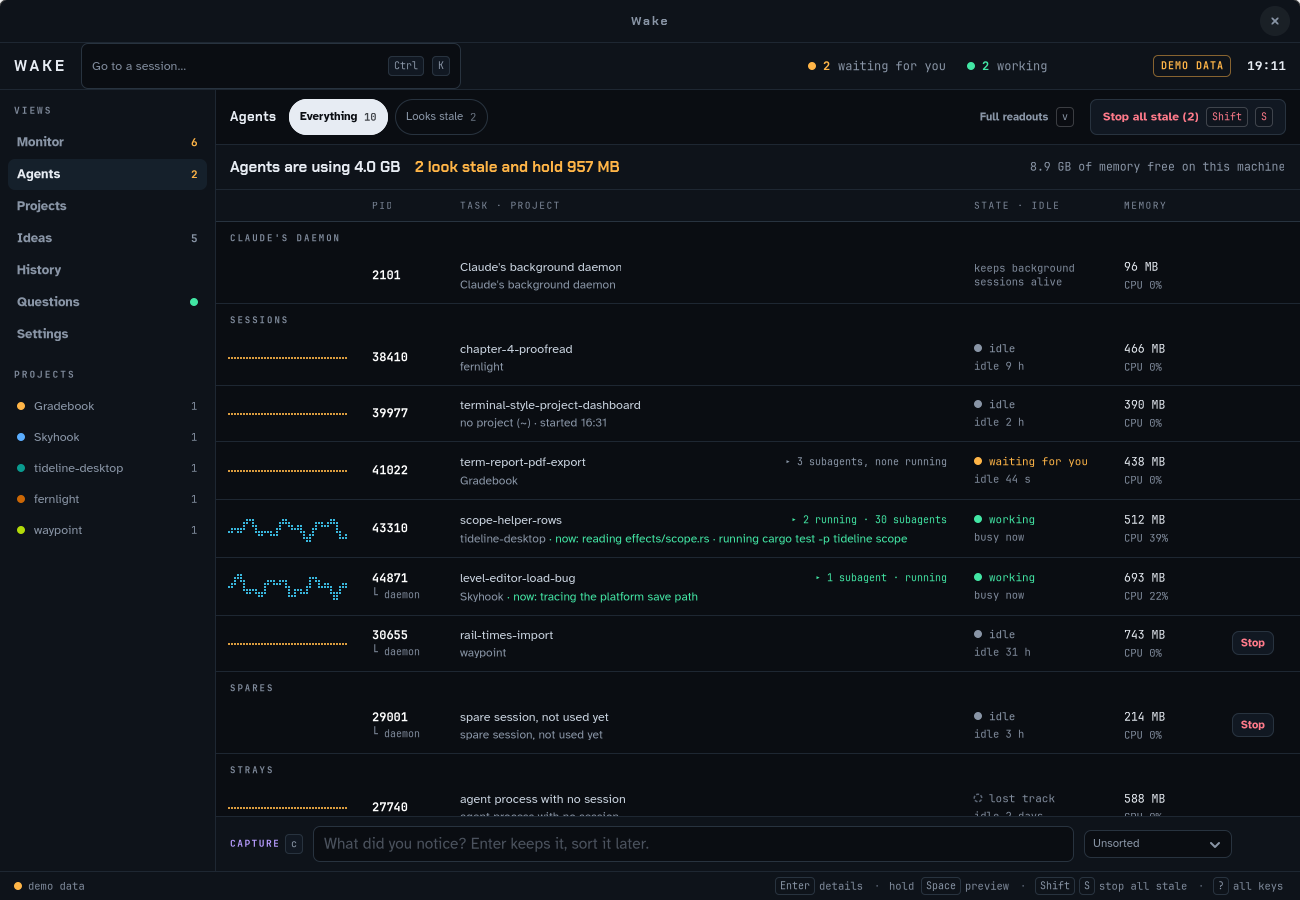
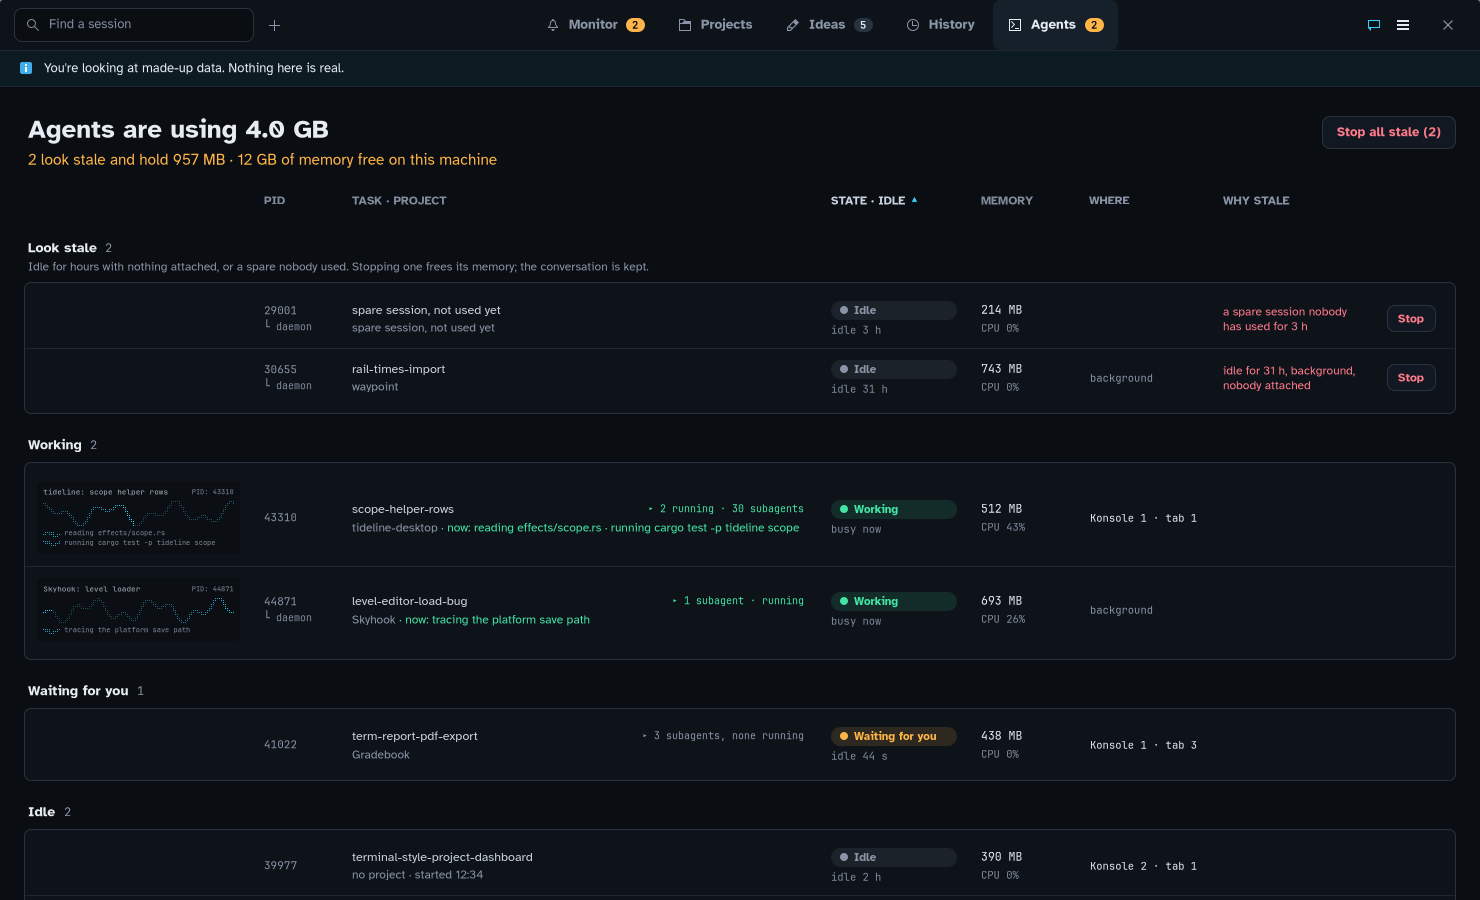
README and pictures for the new design; version 0.1.0-beta.1

diff --git a/README.md b/README.md
@@ -16,7 +16,7 @@ It only reads. Nothing it learns about your sessions leaves your computer.
 [**Getting it**](#getting-it) ·
 [**With Slipstream**](#with-slipstream)
 
-<img src="assets/monitor.png" width="840" alt="Wake's Monitor view with made-up data: seven open sessions, each with its project, its state (waiting for you, working, idle, lost track), the Konsole tab or background it runs in, and what it is doing now or the question it is waiting on.">
+<img src="assets/monitor.png" width="840" alt="Wake's Monitor view with made-up data: a headline saying two sessions need you, a card for each with the question it is asking and a Go to button, then the two working sessions with their live traces, then earlier sessions on one line each.">
 
 </div>
 
@@ -26,23 +26,26 @@ You start an agent on something, then another, then switch projects, and an hour
 know which tab is which, which one is waiting on you, or where you'd got to in the project you put
 down yesterday. Wake reads what the agents already leave on disk and puts it in one window.
 
-- **Monitor** lists every open session: whether it is working, waiting for you, idle or gone, how
-  Wake knows that, where it runs (which Konsole tab, or in the background), and what it is doing
-  now or the question it is waiting on.
-- **Agents** lists the agent processes themselves: which PID is which task, how much memory each
-  holds, how long it has been idle, and which look stale (idle for hours with nobody attached, a
-  spare nobody used, a process whose terminal has gone). You can stop them from here; Wake names
-  the task and PID and asks first.
-- **Projects** shows where you left each project: Claude's own last recap, the next step you
-  wrote down, git loose ends in plain words (uncommitted files, branches and commits not pushed,
-  repos with no remote at all), and a pause note when you put one down on purpose.
-- **Ideas** keeps what you noticed while working (`c`, or `wake , text` in a terminal), to sort
-  into projects later. Tick a few and start an agent on them with a brief.
-- **History** searches everything you asked, every session title and every file touched, including
-  sessions Claude has since deleted: Wake keeps a summary of each.
-- **Questions** asks your own `claude`, `codex` or `gemini` a quick question without opening a
-  terminal, in threads you can come back to. They may only search and read; nothing that changes
-  files is allowed.
+- **Monitor** starts with what needs you: each session waiting on a question or a decision is a
+  card with the question in full and the way there under it. Then the sessions at work, each with
+  its live trace and what you last asked, and everything else on one quiet line each.
+- **Projects** shows where you left each project, a card each: the next step you wrote down (or
+  Claude's last recap), the sessions open in it, commits waiting to be pulled, and git loose ends
+  in plain words (uncommitted files, branches and commits not pushed, repos with no remote).
+- **Ideas** keeps what you noticed while working (`c`, the `+` button, or `wake , text` in a
+  terminal), as notes to sort into projects. Tick a few and start an agent on them with a brief.
+- **History** lists every session by the day you last used it, and searches everything you asked,
+  every session title and every file touched, including sessions Claude has since deleted: Wake
+  keeps a summary of each.
+- **Agents** lists the agent processes themselves, grouped by what you might do about them: the
+  ones that look stale first (idle for hours with nobody attached, a spare nobody used), then
+  those working, waiting for you and idle. Each says which PID is which task, how much memory it
+  holds and how long it has been idle; a working one carries its readout. Claude's own background
+  processes are folded away until you ask for them. You can stop an agent from here; Wake names
+  the task and asks first.
+- **Ask** (the speech bubble) asks your own `claude`, `codex` or `gemini` a quick question
+  without opening a terminal, in threads you can come back to. They may only search and read;
+  nothing that changes files is allowed.
 - **Peek**: hold `Space` on a session to see it without leaving Wake, and let go to come back.
   On Slipstream the desktop slides to the agent's window; on KDE Plasma a small KWin script
   switches to it; anywhere else, and for background sessions, Wake shows the agent's terminal text.
@@ -55,20 +58,27 @@ down yesterday. Wake reads what the agents already leave on disk and puts it in 
   build output and caches that come back by themselves, agent worktrees that are merged, and what
   to leave alone.
 
-The side panel (`Enter`) opens a session or a project in full: the prompts you sent, Claude's
-recap, files changed, subagents and what each handed back.
+The details (`Enter`, or a double click) open a session or a project in full: the question it is
+asking and the way there first, then the prompts you sent, Claude's recap, files changed, and
+subagents and what each handed back, each on a page of its own. They sit beside the list in a wide
+window, slide over it in a narrower one, and take its place in a narrow one, with Back in the title
+bar.
 
 <div align="center">
-<img src="assets/agents.png" width="840" alt="Wake's Agents view with made-up data: agent processes grouped as Claude's daemon, sessions, spares and strays, each with a small oscilloscope trace, its PID, task and project, state, memory and why it looks stale, with Stop buttons on the two stale ones.">
+<img src="assets/projects.png" width="840" alt="Wake's Projects view with made-up data: a card for each of five projects, with its name and colour, its next step in large type, its open sessions, commits to pull, and git loose ends.">
+</div>
+
+<div align="center">
+<img src="assets/agents.png" width="840" alt="Wake's Agents view with made-up data: agents are using 4.0 GB, two look stale; boxes for the stale ones (with Stop buttons), the working ones (each with its readout), and the one waiting for you, each row with its PID, task and project, state, memory and where it runs.">
 </div>
 
 ## Keys
 
 | Key | |
 |---|---|
-| `1` to `6` | Monitor, Agents, Projects, Ideas, History, Questions |
-| `g` or `Ctrl+K` | go to a session by name; `→` looks inside at its subagents |
-| `Enter` | details in the side panel |
+| `1` to `6` | Monitor, Agents, Projects, Ideas, History, Ask |
+| `g` or `Ctrl+K` | find a session by name; `→` looks inside at its subagents |
+| `Enter` | the details; `Esc` goes back a page, then closes them |
 | hold `Space` | peek at the session; let go to come back, `Enter` to stay |
 | `o` | go there |
 | `c` | capture an idea |
@@ -117,7 +127,7 @@ Everything else it does is something you ask for, and it asks again first:
 
 ## Getting it
 
-Wake is built from source for now. It needs GTK 4.14 or newer and Pango 1.56 or newer: Fedora 43
+Wake is in beta, and is built from source for now. It needs GTK 4.14 or newer and Pango 1.56 or newer: Fedora 43
 and later, Debian 13 and Ubuntu 26.04 have them. It also needs Rust through
 [rustup](https://rustup.rs), because `rust-toolchain.toml` pins the version and a distribution's
 own Rust ignores that file.
@@ -146,7 +156,7 @@ wake              # the real thing: it finds git folders under ~/Projects; track
 
 **Agents.** Claude Code is what Wake knows best: live state, background sessions, subagents,
 recaps and questions it is waiting on. Codex sessions are read from their transcripts, without
-live state. Gemini CLI processes appear in Agents, and Questions can ask any of the three that
+live state. Gemini CLI processes appear in Agents, and Ask can use any of the three that
 is installed.
 
 **Desktops.** Go there and Start an agent use Konsole. Switching to a session's tab needs
@@ -164,9 +174,9 @@ Wake works on any desktop, and goes further on
 
 - **Peek and go there** use Slipstream's Look request: the desktop flies to the agent's
   workspace and rings its window, while the keyboard stays with Wake.
-- **The Agents view** draws each agent's trace the way Slipstream's faded desktop does, from the
-  notes [agent-notify](https://github.com/peterwalker78/agent-notify) leaves, in your Slipstream
-  colours.
+- **Monitor and Agents** draw each working agent's trace the way Slipstream's faded desktop does,
+  from the notes [agent-notify](https://github.com/peterwalker78/agent-notify) leaves, in your
+  Slipstream colours: in Agents, the whole readout, smaller.
 - **A card for the plugin panel** (`plugin/`) shows how many sessions are waiting and working,
   with a button to the one waiting longest. Its README says how to install it.
 
